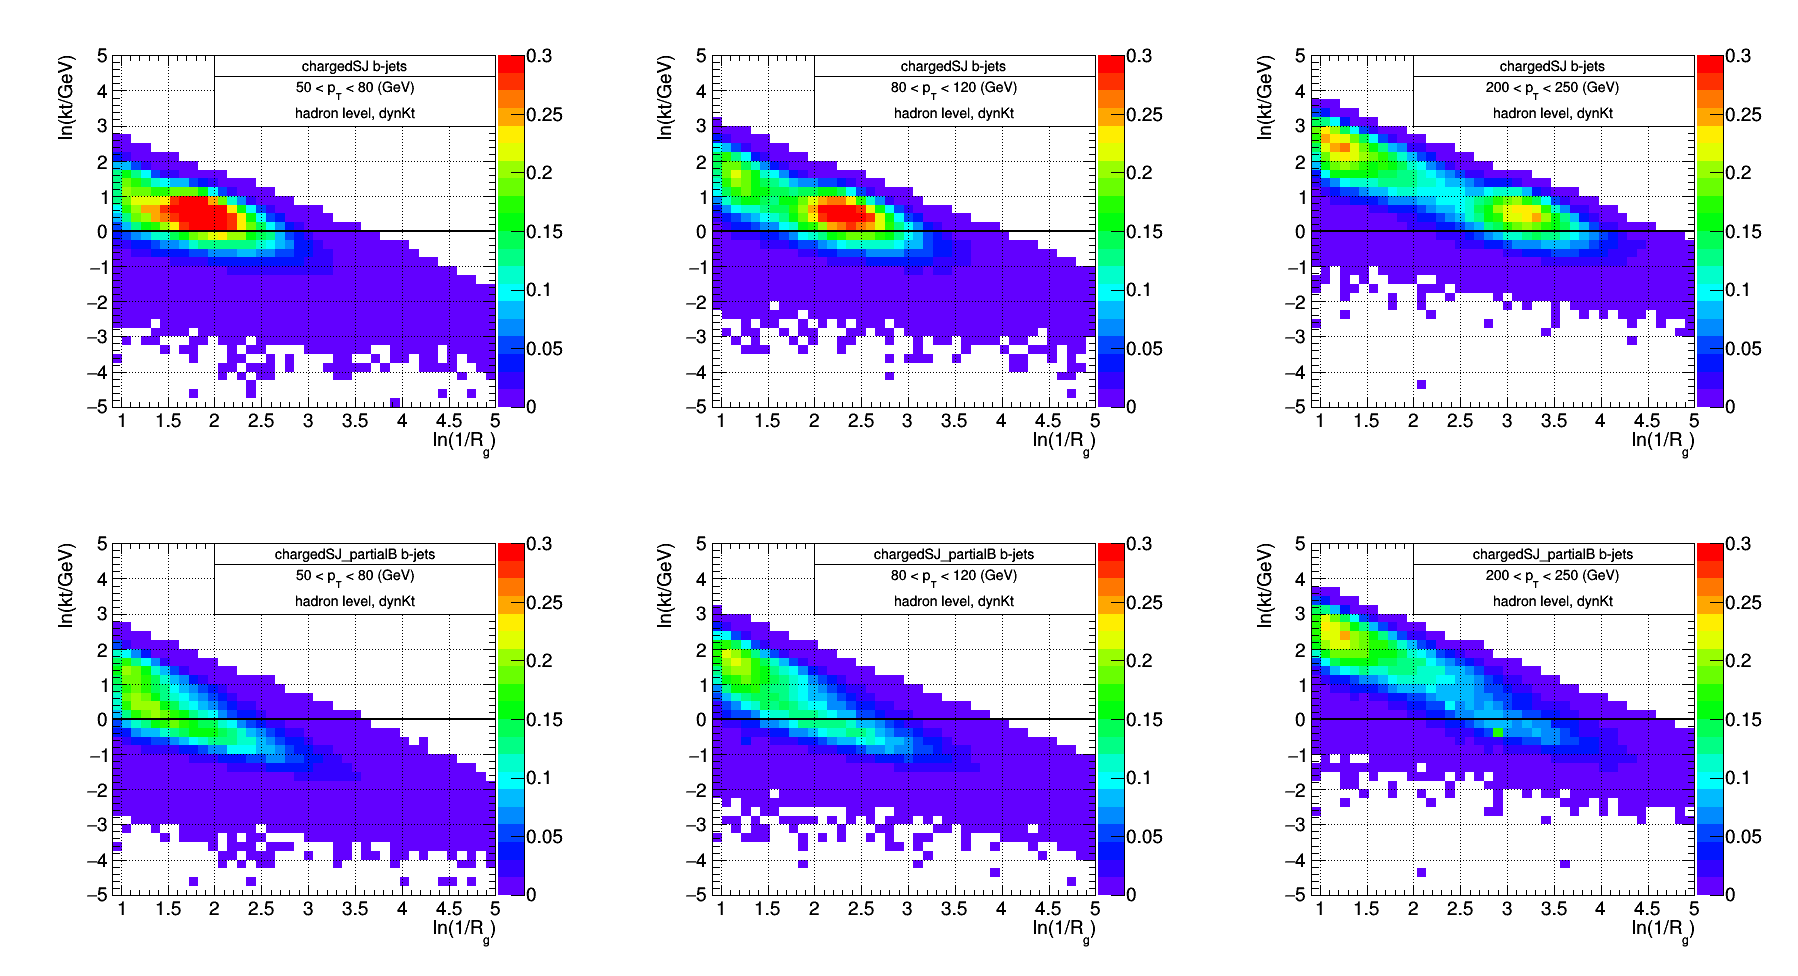
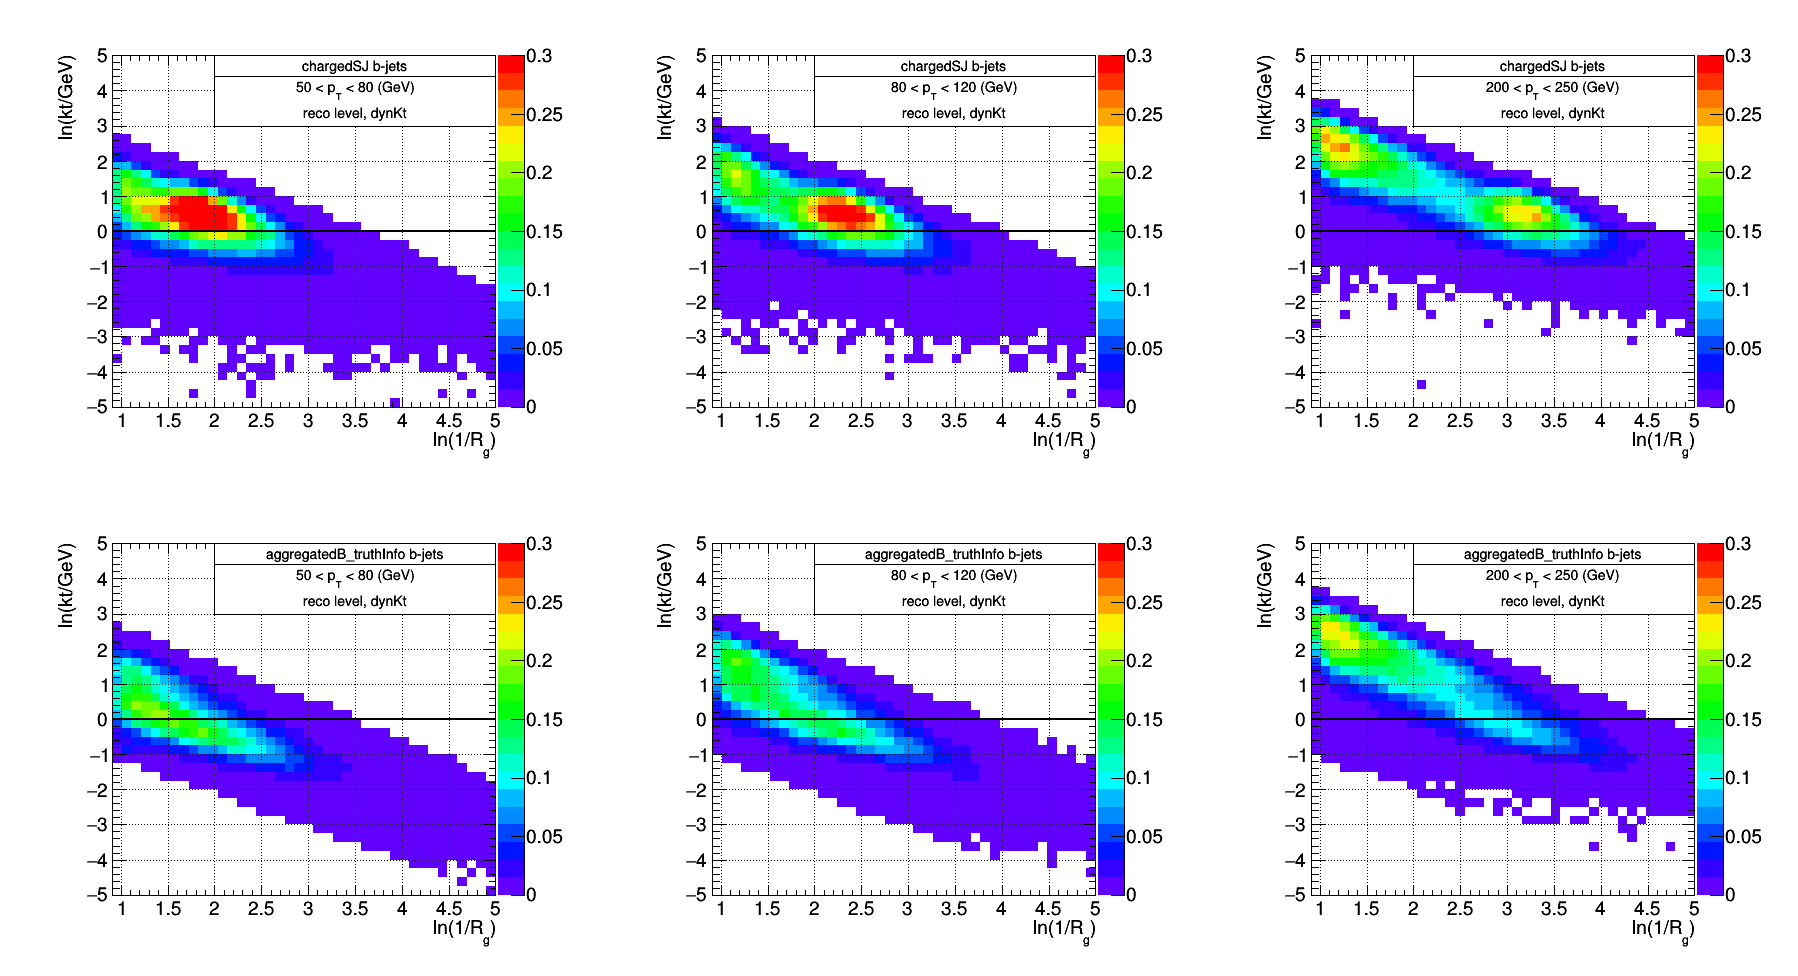
decay effect for reco level plots

diff --git a/myMacros/pt2dscan/decay_effect/draw_decay_effect_reco.C b/myMacros/pt2dscan/decay_effect/draw_decay_effect_reco.C
@@ -13,9 +13,10 @@
 
 using namespace std;
 
-void draw_decay_effect(bool chargedSJ = true, bool GSPincl = true)
+void draw_decay_effect_reco(bool chargedSJ = true, bool GSPincl = true)
 {
     /* Only charged SJ */
+    chargedSJ = true;
 
     cout << "Running with options : " << endl;
     cout << "chargedSJ : " << chargedSJ << endl;
@@ -146,8 +147,8 @@ void draw_decay_effect(bool chargedSJ = true, bool GSPincl = true)
 
         //if (chargedSJ) {
             info_decayed->AddText("chargedSJ b-jets");
-            info_undecayed->AddText("chargedSJ_partialB b-jets");
-            info_ratio->AddText("ratio chargedSJ / chargedSJ_partialB b-jets");
+            info_undecayed->AddText("aggregatedB_truthInfo b-jets");
+            info_ratio->AddText("ratio chargedSJ / aggregatedB_truthInfo b-jets");
         //} else {
         //    info_decayed->AddText("SD b-jets");
         //    info_undecayed->AddText("fullB b-jets");
@@ -166,7 +167,7 @@ void draw_decay_effect(bool chargedSJ = true, bool GSPincl = true)
         TPaveText *info_undecayed_dynKt = (TPaveText *) info_undecayed->Clone();
         TPaveText *info_ratio_dynKt = (TPaveText *) info_ratio->Clone();
 
-        string level = "hadron level";
+        string level = "reco level";
 
         
         if (!GSPincl) { 
@@ -186,7 +187,7 @@ void draw_decay_effect(bool chargedSJ = true, bool GSPincl = true)
 
         // c : decayed, undecayed
         Float_t zmin = 0.;
-        Float_t zmax = 0.4;
+        Float_t zmax = 0.3;
         
         c->cd(i + 1);
         c->cd(i + 1)->SetGrid();
